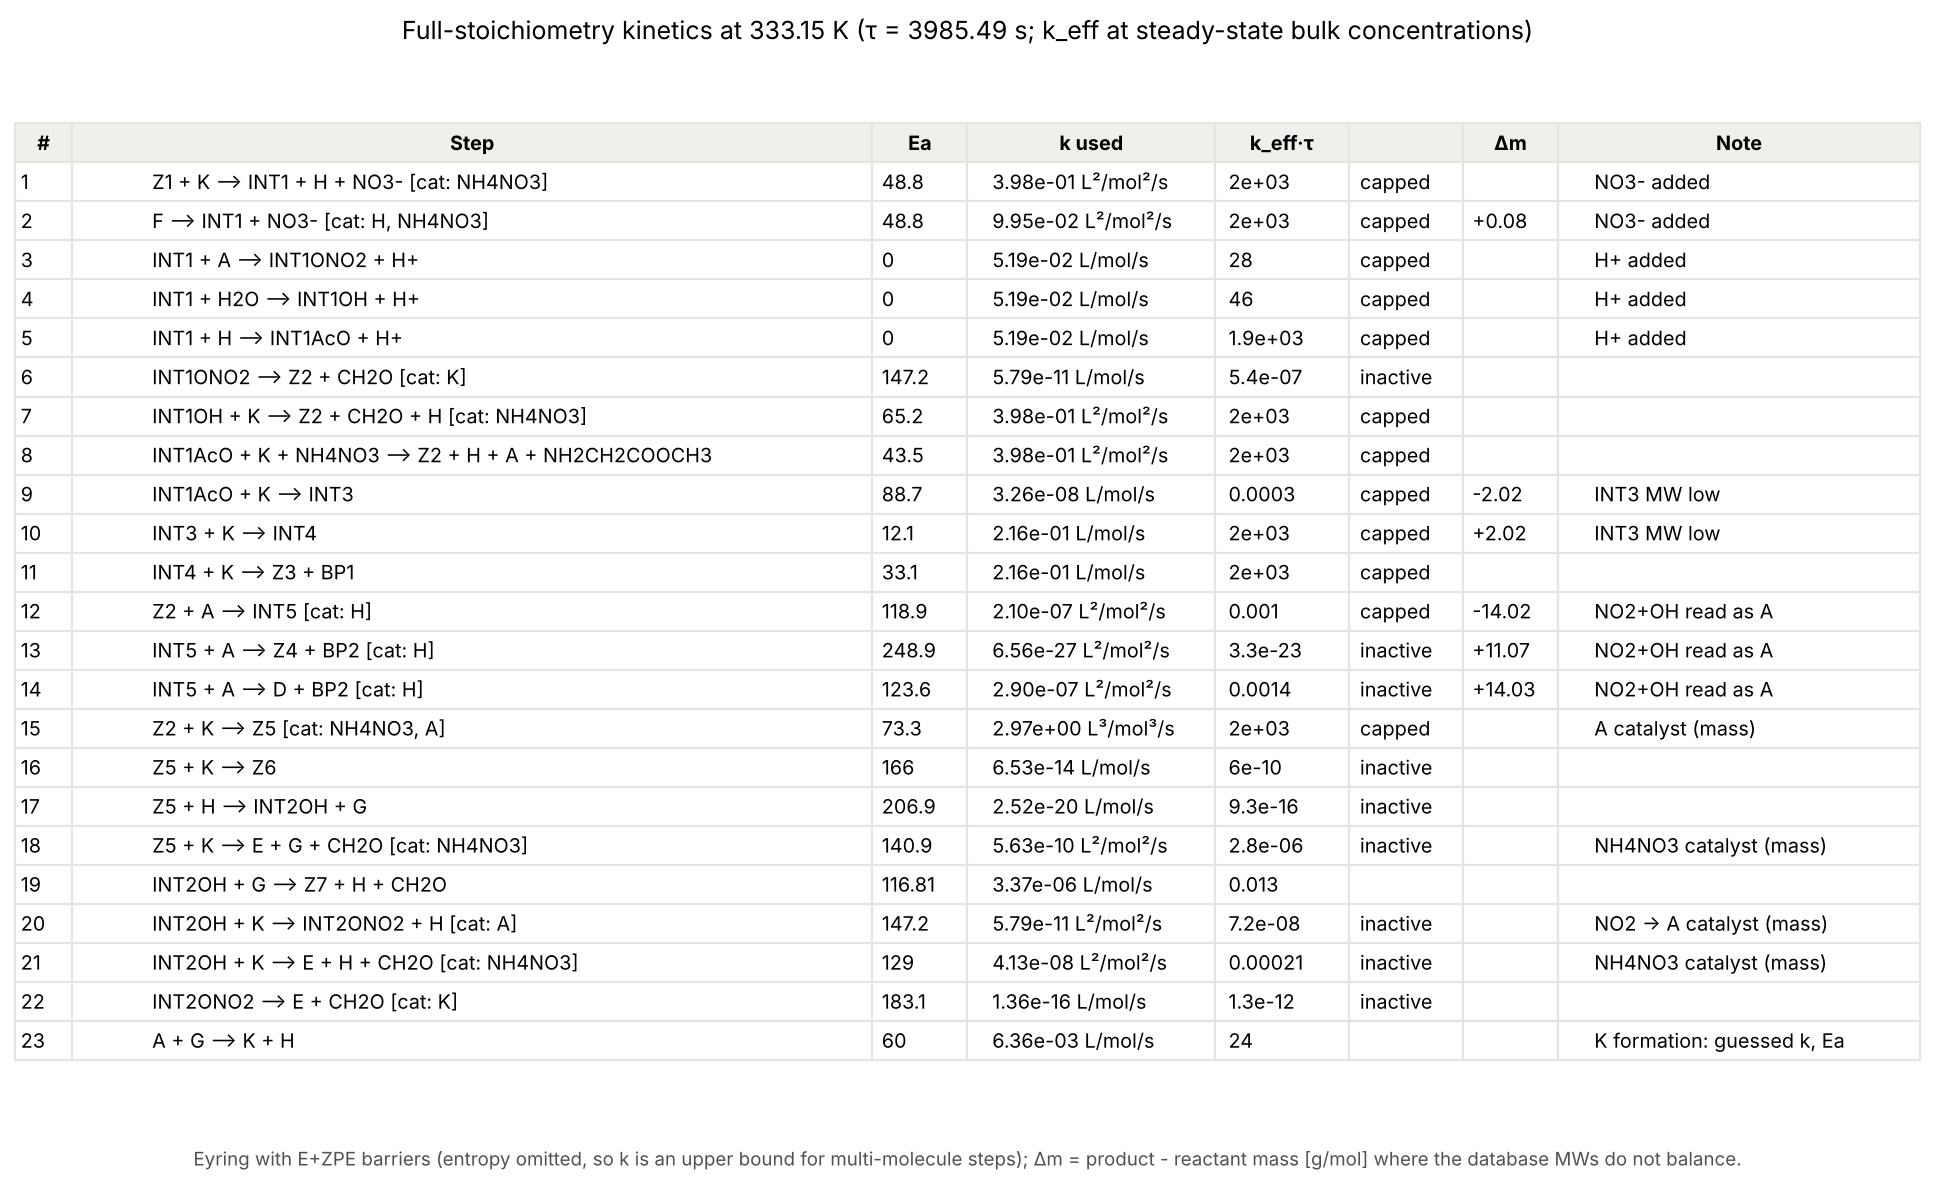
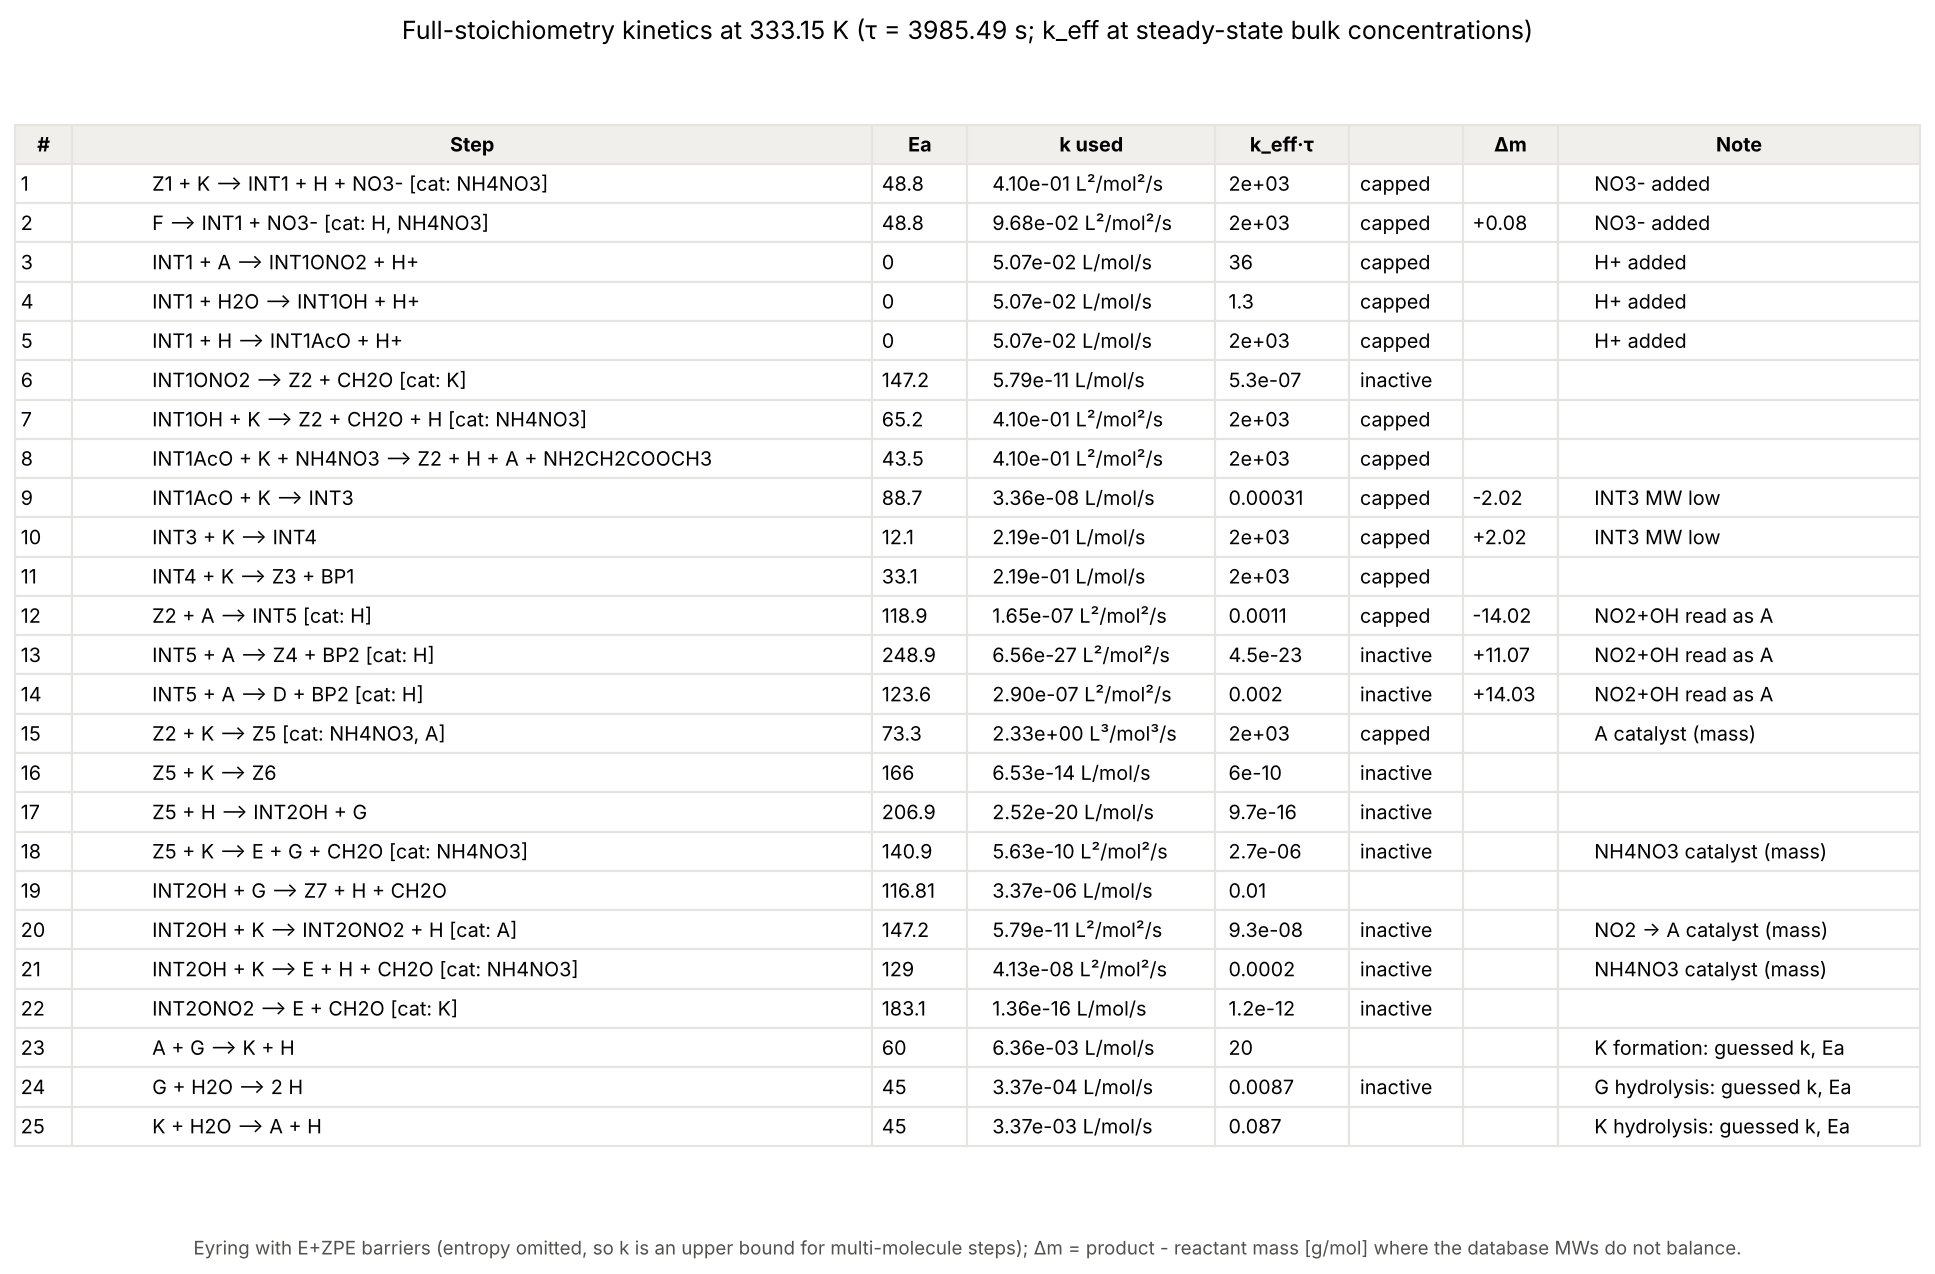
Full network model: add G and K hydrolysis with guessed rates
Claude-Session: https://claude.ai/code/session_01K4fAYaknGs2j13owVbAtJi

diff --git a/Project work/R02R_network/R02R_network_full.py b/Project work/R02R_network/R02R_network_full.py
@@ -39,6 +39,10 @@ How the DFT table was turned into reactions
   at 25 C and 60 kJ/mol, i.e. ~6e-3 L/mol/s at 60 C. The basis is a
   half-life of about 5 min at room temperature in excess G; it is an order
   of magnitude guess, not data, and is irreversible here (no K_eq).
+* Water from the water stream hydrolyses G (G + B --> 2 H) and K
+  (K + B --> A + H). Neither is in the DFT table; both use guessed
+  Arrhenius rates (``G_HYDROLYSIS_K_REF``, ``K_HYDROLYSIS_K_REF``,
+  ``HYDROLYSIS_EA``): 5e-5 and 5e-4 L/mol/s at 25 C, 45 kJ/mol.
 * The two K --> NO2+ + AcO- rows are left out: nothing in the network
   consumes NO2+ or AcO-, so they would only drain K.
 * Database MWs that do not balance (left as they are, see ``check_mass``):
@@ -114,6 +118,18 @@ K_FORMATION_K_REF = 5.0e-4  # L/mol/s at K_FORMATION_T_REF
 K_FORMATION_EA = 60.0  # kJ/mol
 K_FORMATION_T_REF = 298.15  # K
 
+# Hydrolysis by the water stream. Also initial guesses, both Arrhenius from
+# 25 C like K formation:
+# * G + B --> 2 H. Uncatalysed G hydrolysis in water runs at ~3e-3 1/s at
+#   25 C in 55 mol/L water, i.e. ~5e-5 L/mol/s, with Ea ~45 kJ/mol. Strong
+#   acid (A) catalyses it, so the real rate here is likely higher.
+# * K + B --> A + H. No data; K is more moisture sensitive than G (nitrate
+#   is the better leaving group), so 10x the G value, same Ea.
+G_HYDROLYSIS_K_REF = 5.0e-5  # L/mol/s at HYDROLYSIS_T_REF
+K_HYDROLYSIS_K_REF = 5.0e-4  # L/mol/s at HYDROLYSIS_T_REF
+HYDROLYSIS_EA = 45.0  # kJ/mol
+HYDROLYSIS_T_REF = 298.15  # K
+
 STEPS = [
     dict(n=1, consumes={"Z1": 1, "K": 1}, produces={"INT1": 1, "H": 1,
          "NO3minus": 1}, catalysts=("I",), ea=48.8,
@@ -175,6 +191,12 @@ STEPS = [
     dict(n=23, consumes={"A": 1, "G": 1}, produces={"K": 1, "H": 1},
          catalysts=(), ea=K_FORMATION_EA, k_ref=K_FORMATION_K_REF,
          t_ref=K_FORMATION_T_REF, note="K formation: guessed k, Ea"),
+    dict(n=24, consumes={"G": 1, "B": 1}, produces={"H": 2},
+         catalysts=(), ea=HYDROLYSIS_EA, k_ref=G_HYDROLYSIS_K_REF,
+         t_ref=HYDROLYSIS_T_REF, note="G hydrolysis: guessed k, Ea"),
+    dict(n=25, consumes={"K": 1, "B": 1}, produces={"A": 1, "H": 1},
+         catalysts=(), ea=HYDROLYSIS_EA, k_ref=K_HYDROLYSIS_K_REF,
+         t_ref=HYDROLYSIS_T_REF, note="K hydrolysis: guessed k, Ea"),
 ]
 
 OPERATING_TEMPERATURE = net.OPERATING_TEMPERATURE
